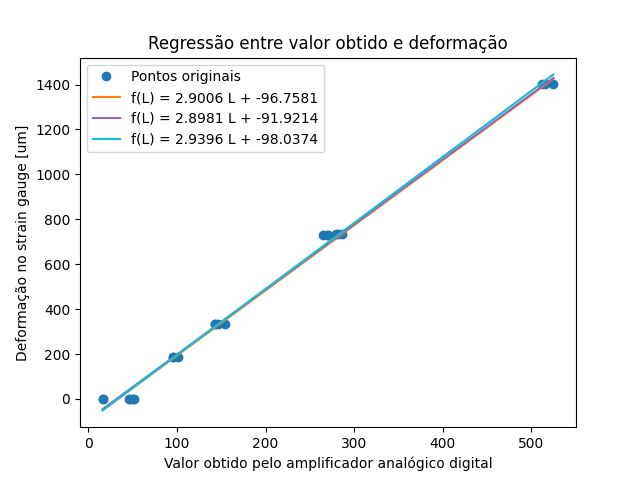
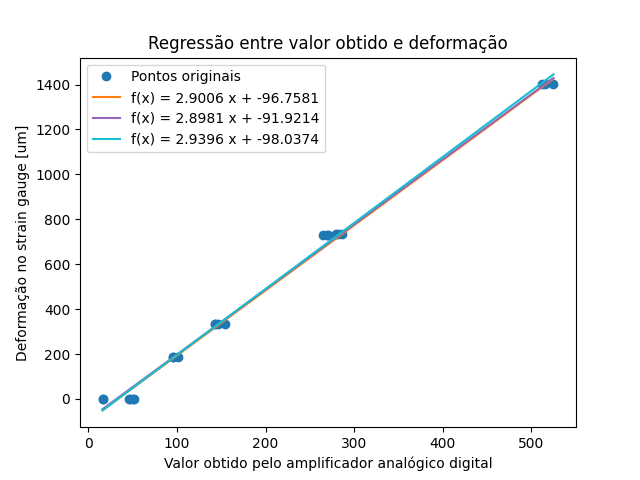
a little bit every day

Changed region(s): [[0.2812, 0.1875, 0.5, 0.3125], [0.2188, 0.1875, 0.25, 0.3125]]

diff --git a/TCC_analysis.py b/TCC_analysis.py
@@ -170,7 +170,7 @@ def regression_read_strain(adj_points, data_):
     return linregress(x=x_values, y=y_values)
 
 
-def plot_regression(regression_list, x_points, y_points):
+def plot_regression(regression_list, x_points, y_points, color_int=1):
     # plotando os valores
     plt.plot(
         x_points,
@@ -178,15 +178,15 @@ def plot_regression(regression_list, x_points, y_points):
         'o',
         label='Pontos originais'
     )
-    i=1
+    color_int=color_int
     for regression in regression_list:
         plt.plot(
             x_points,
             regression.intercept + regression.slope * x_points,
-            f'C{i**2}',
-            label=f'f(L) = {round(regression.slope, 4)} L + {round(regression.intercept, 4)}'
+            f'C{color_int**2}',
+            label=f'f(x) = {round(regression.slope, 4)} x + {round(regression.intercept, 4)}'
         )
-        i+=1
+        color_int+=1
 
 
 # diretorio dos arquivos pra analise
@@ -219,7 +219,8 @@ plot_regression(
         )
     ],
     x_points=array(df['weight_value']),
-    y_points=array(df['read_load'])
+    y_points=array(df['read_load']),
+    color_int=1
 )
 plt.title('Regressão entre peso e valor no ADC')
 plt.xlabel('Massa aplicada [kg]')
@@ -231,24 +232,34 @@ plt.close()
 
 
 # regressoes entre valor do ADC e deformacao
+regression_list = [
+    regression_read_strain(  # regressão com 2 pontos
+        adj_points=['1', '3'],
+        data_=data
+    ),
+    regression_read_strain(  # regressão com 3 pontos
+        adj_points=['1', 'a', '3'],
+        data_=data
+    ),
+    regression_read_strain(  # regressão com todos os pontos
+        adj_points=['0', '1', '2', 'a', 'b', '3'],
+        data_=data
+    )
+]
+
+i=1
+for regression in regression_list:
+    df[f'linreg_{i}'] = regression.slope * df['read_load'] + regression.intercept
+    i+=1
+
+df.to_csv('Results/sep_24_1_results.csv', index=None)
+
 plt.figure()
 plot_regression(
-    regression_list=[
-        regression_read_strain(  # regressão com 2 pontos
-            adj_points=['1', '3'],
-            data_=data
-        ),
-        regression_read_strain(  # regressão com 3 pontos
-            adj_points=['1', 'a', '3'],
-            data_=data
-        ),
-        regression_read_strain(  # regressão com todos os pontos
-            adj_points=['0', '1', '2', 'a', 'b', '3'],
-            data_=data
-        )
-    ],
+    regression_list=regression_list,
     x_points=array(df['read_load']),
-    y_points=array(df['strain_value'])
+    y_points=array(df['strain_value']),
+    color_int=1
 )
 plt.title('Regressão entre valor obtido e deformação')
 plt.xlabel('Valor obtido pelo amplificador analógico digital')
@@ -257,23 +268,3 @@ plt.legend()
 plt.show()
 plt.savefig(f'{dir_}_deformation.png')
 plt.close()
-
-# regression_list = [
-#     regression_read_strain(  # regressão com 2 pontos
-#         adj_points=['1', '3'],
-#         data_=data
-#     ),
-#     regression_read_strain(  # regressão com 3 pontos
-#         adj_points=['1', 'a', '3'],
-#         data_=data
-#     ),
-#     regression_read_strain(  # regressão com todos os pontos
-#         adj_points=['0', '1', '2', 'a', 'b', '3'],
-#         data_=data
-#     )
-# ]
-
-# analise analitica
-# df.columns = ['weight', 'calculated_strain']
-# df.to_csv('Results/sep_24_1_results.csv', index=None)
-#
